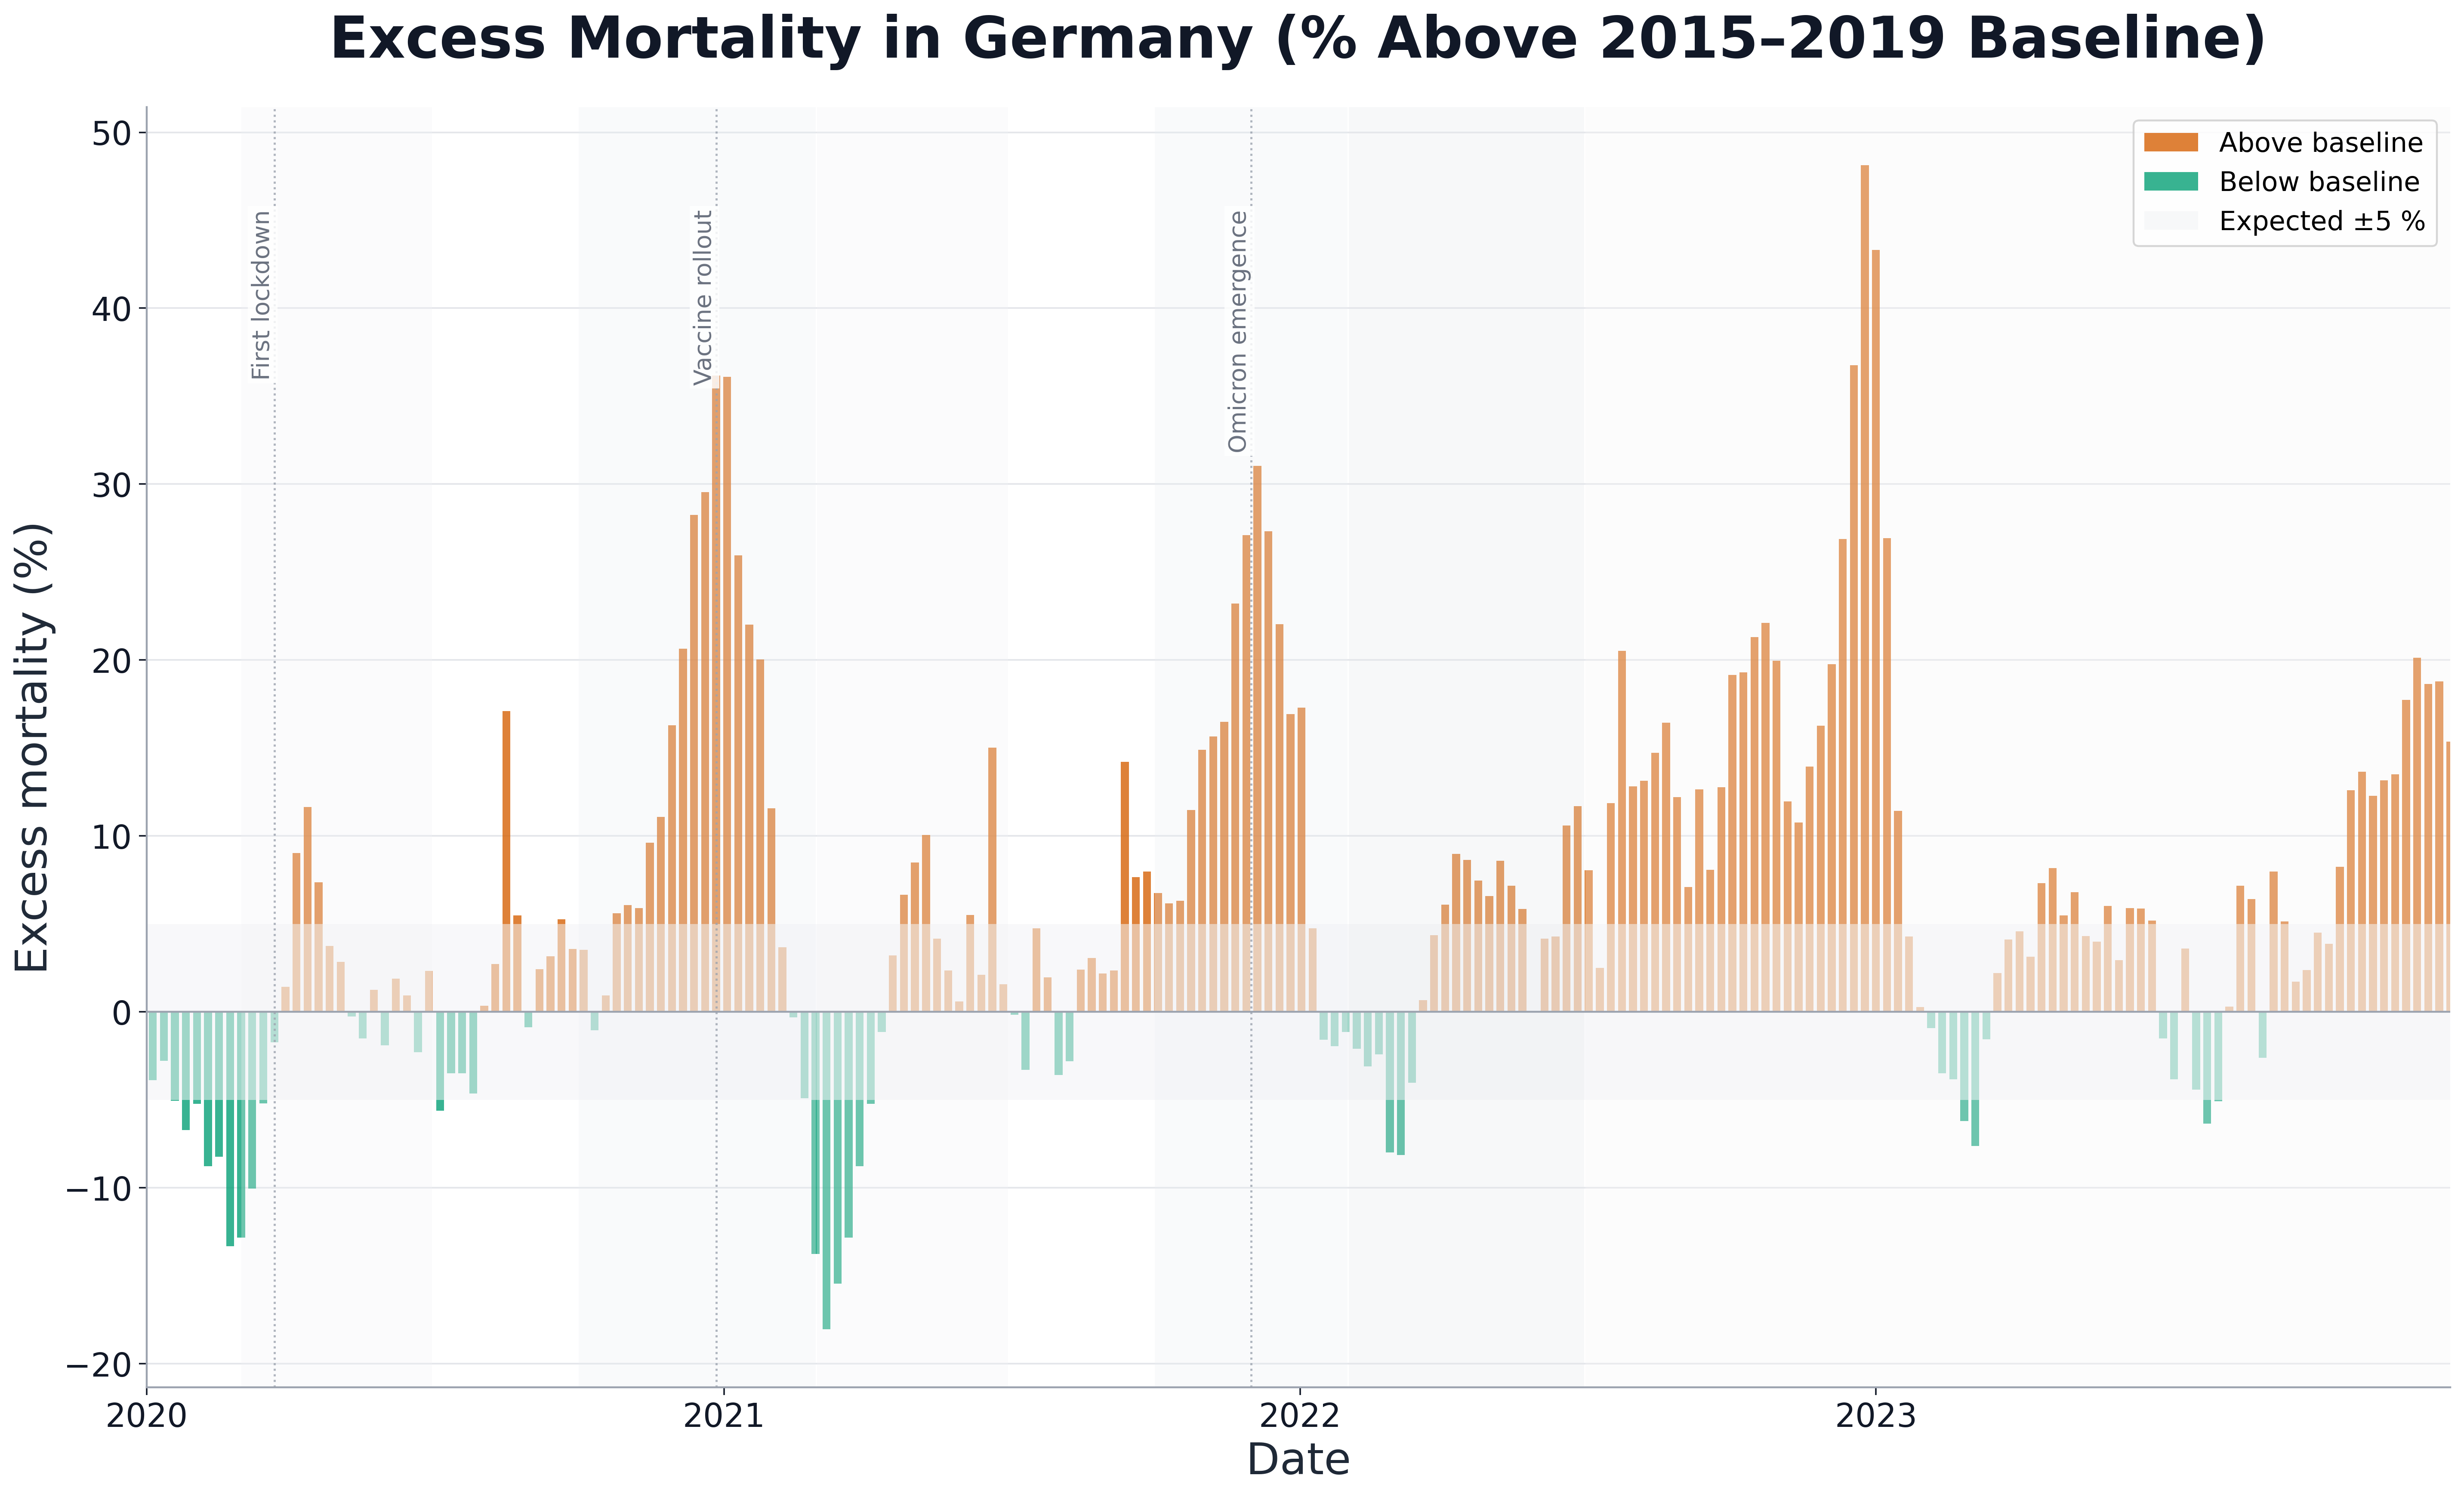
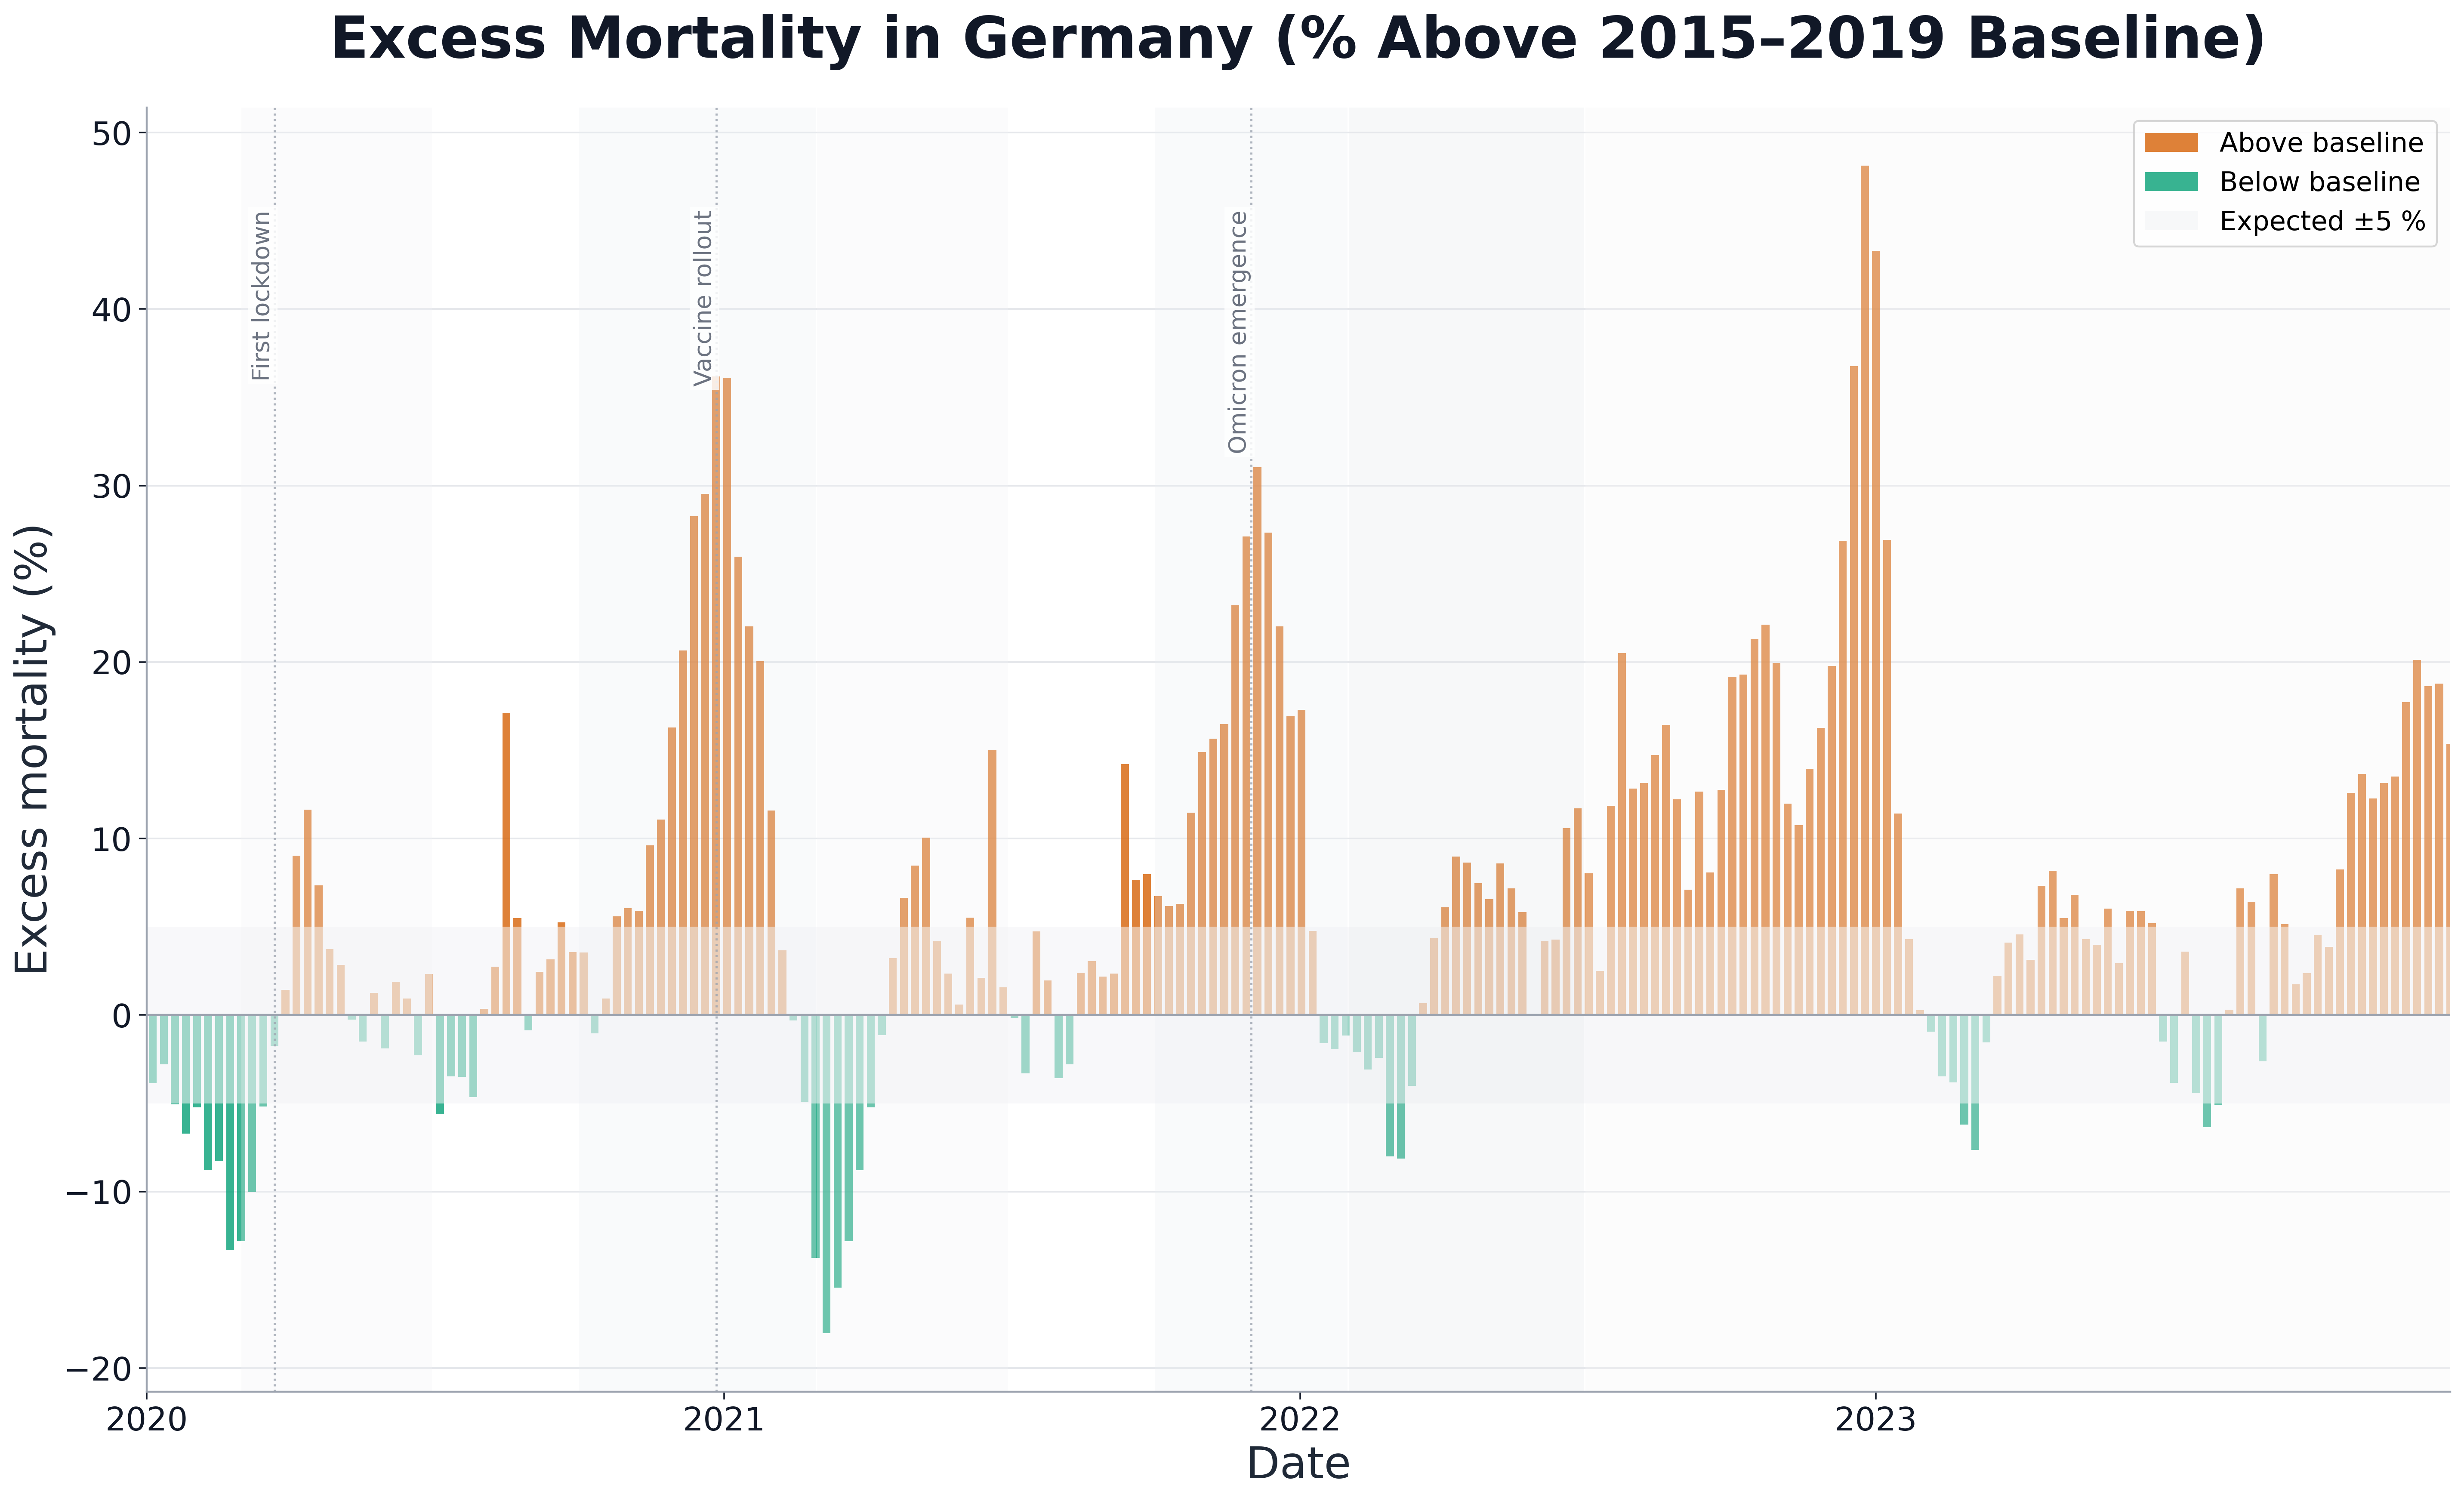
Refresh comparison mortality and variants figures

Changed region(s): [[0.9013, 0.0931, 0.9635, 0.1552]]

diff --git a/scripts/plot10_variants_heatmap.py b/scripts/plot10_variants_heatmap.py
@@ -1,4 +1,4 @@
-"""Plot 10 – Variant dominance stackplot for Germany.
+"""Plot 10 - Variant dominance stackplot for Germany.
 
 Uses the ECDC variant surveillance CSV (data/raw/ecdc_variants.csv).
 Variants are grouped by WHO variant family (Alpha, Beta/Gamma, Delta,
@@ -9,7 +9,14 @@ import matplotlib.pyplot as plt
 import matplotlib.dates as mdates
 import pandas as pd
 
-from utils import apply_style, data_raw, figures_dir, save_figure, save_plotly_html
+from utils import (
+    apply_style,
+    axis_limits,
+    data_raw,
+    figures_dir,
+    save_figure,
+    save_plotly_html,
+)
 
 INTERACTIVE_OUT = figures_dir / "plot10_variants_interactive.html"
 
@@ -111,7 +118,7 @@ def _build_static(group_df: pd.DataFrame, col_order: list[str], colors: list[str
     apply_style(ax, "SARS-CoV-2 variant dominance in Germany", date_axis=True)
     ax.set_ylabel("Share of sequenced samples (%)")
     ax.set_xlabel("Date")
-    ax.set_ylim(0, 100)
+    ax.set_ylim(*axis_limits["percentage"])
     ax.set_xlim(group_df.index.min(), group_df.index.max())
 
     ax.xaxis.set_major_locator(mdates.MonthLocator(bymonth=[1, 4, 7, 10]))
@@ -122,14 +129,15 @@ def _build_static(group_df: pd.DataFrame, col_order: list[str], colors: list[str
     ax.legend(
         handles[::-1],
         labels[::-1],
-        loc="upper left",
-        bbox_to_anchor=(1.01, 1.0),
-        fontsize=12,
+        loc="upper center",
+        bbox_to_anchor=(0.5, -0.22),
+        ncol=4,
+        fontsize=11.5,
         frameon=True,
         framealpha=0.92,
     )
 
-    fig.tight_layout()
+    fig.subplots_adjust(left=0.10, right=0.96, top=0.88, bottom=0.30)
     save_figure(fig, "plot10_variants_heatmap")
 
 

diff --git a/scripts/plot09_excess_mortality.py b/scripts/plot09_excess_mortality.py
@@ -1,4 +1,4 @@
-"""Plot 09 – Excess mortality in Germany.
+"""Plot 09 - Excess mortality in Germany.
 
 Plots the OWID `excess_mortality` column (percentage deviation from the
 2015-2019 baseline provided by the Human Mortality Database / WMD) as a
@@ -26,7 +26,7 @@ def main() -> None:
     """Generate the excess mortality bar chart."""
     df = load_germany_daily()
 
-    # excess_mortality is weekly in OWID — keep non-NaN rows only
+    # excess_mortality is weekly in OWID - keep non-NaN rows only
     em = df[["date", "excess_mortality"]].dropna(subset=["excess_mortality"]).copy()
     em = em[em["date"] >= "2020-01-01"].copy()
 

diff --git a/scripts/plot08_germany_poland.py b/scripts/plot08_germany_poland.py
@@ -1,4 +1,4 @@
-"""Plot 08 – Germany vs Poland: 7-day incidence and deaths per 100k.
+"""Plot 08 - Germany vs Poland: 7-day incidence and deaths per 100k.
 
 Produces an interactive Plotly figure with two facets (cases / deaths)
 saved as a self-contained HTML file for the presentation, and a static